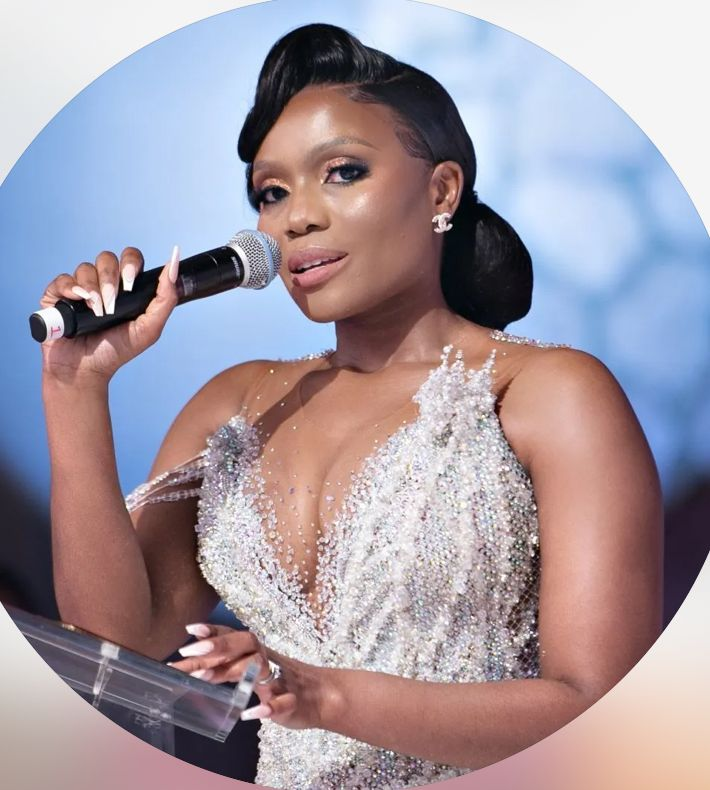
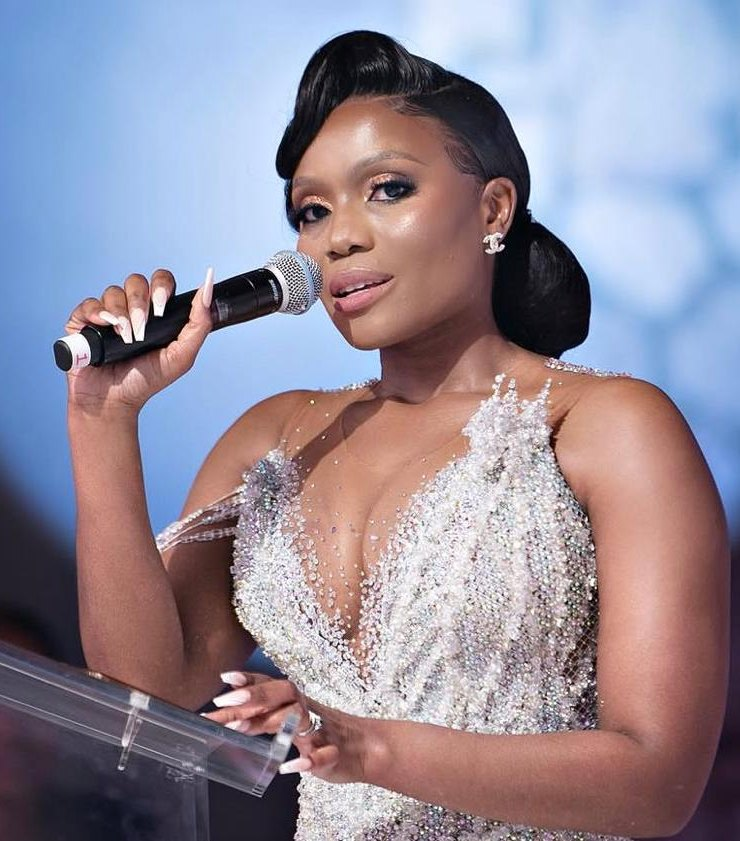
Use Linda's preferred stage photo as the main profile picture
Claude-Session: https://claude.ai/code/session_01VwkczwpAnKxHLXCJURek2F

diff --git a/index.html b/index.html
@@ -85,7 +85,7 @@ header.nav{position:sticky;top:env(safe-area-inset-top,0px);z-index:20;backgroun
 .hero .ctas{display:flex;flex-wrap:wrap;gap:.8rem;margin-top:2rem}
 .arch{position:relative;justify-self:center;width:min(100%,430px)}
 .arch .frame{aspect-ratio:4/5;border-radius:999px 999px 14px 14px;overflow:hidden;background:var(--surface);max-width:100%}
-.arch .frame img{width:100%;height:100%;object-fit:cover;object-position:50% 20%;transform:scale(1.12)}
+.arch .frame img{width:100%;height:100%;object-fit:cover;object-position:50% 15%}
 .arch::before{content:"";position:absolute;inset:-14px -14px auto -14px;height:calc(100% + 28px);border:1px solid var(--gold);border-radius:999px 999px 20px 20px;pointer-events:none}
 .arch .tag{position:absolute;left:-1.5rem;bottom:2.2rem;background:var(--bg);border:1px solid var(--line);padding:.8rem 1rem;border-radius:12px;font-size:.78rem;line-height:1.35;max-width:14rem;box-shadow:0 12px 30px -18px rgba(40,10,20,.45)}
 .arch .tag b{display:block;font-family:var(--f-display);font-weight:500;font-size:1.05rem}
